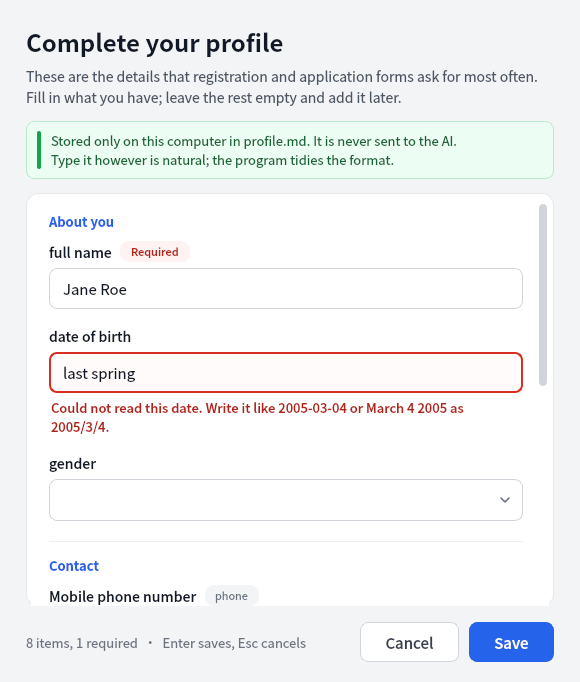
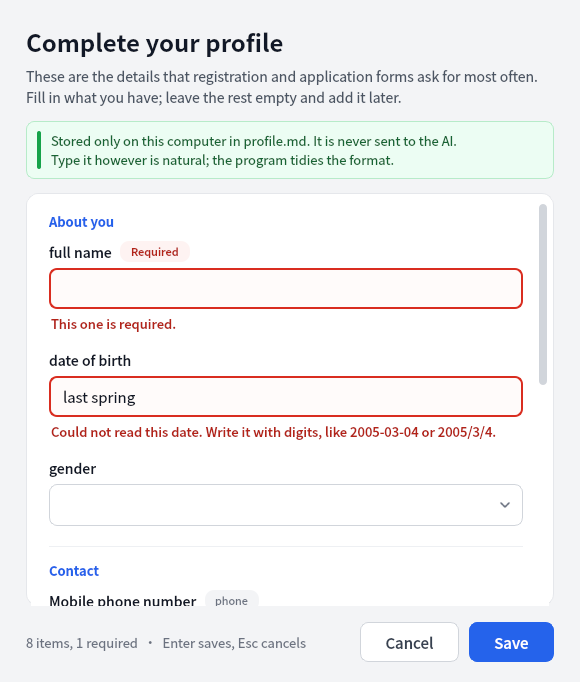
Clearer date error message; error screenshot without sample name

diff --git a/privfill.py b/privfill.py
@@ -89,7 +89,7 @@ UI = {
     "foot_required": ("{n} items, {r} required", "共 {n} 项，其中 {r} 项必填"),
     "foot_keys": ("Enter saves, Esc cancels", "回车保存，Esc 取消"),
     "bad_required": ("This one is required.", "这一项必填。"),
-    "bad_date": ("Could not read this date. Write it like 2005-03-04 or March 4 2005 as 2005/3/4.",
+    "bad_date": ("Could not read this date. Write it with digits, like 2005-03-04 or 2005/3/4.",
                  "没看懂这个日期，请写成类似 2005年3月4日 或 2005-03-04。"),
     "bad_date_invalid": ("This date does not exist. Check the year, month and day.", "这个日期不存在，请核对年月日。"),
     "bad_phone": ("A phone number should contain only digits (7 to 15 of them).", "电话号码里应该只有数字（7 到 15 位），请核对。"),
